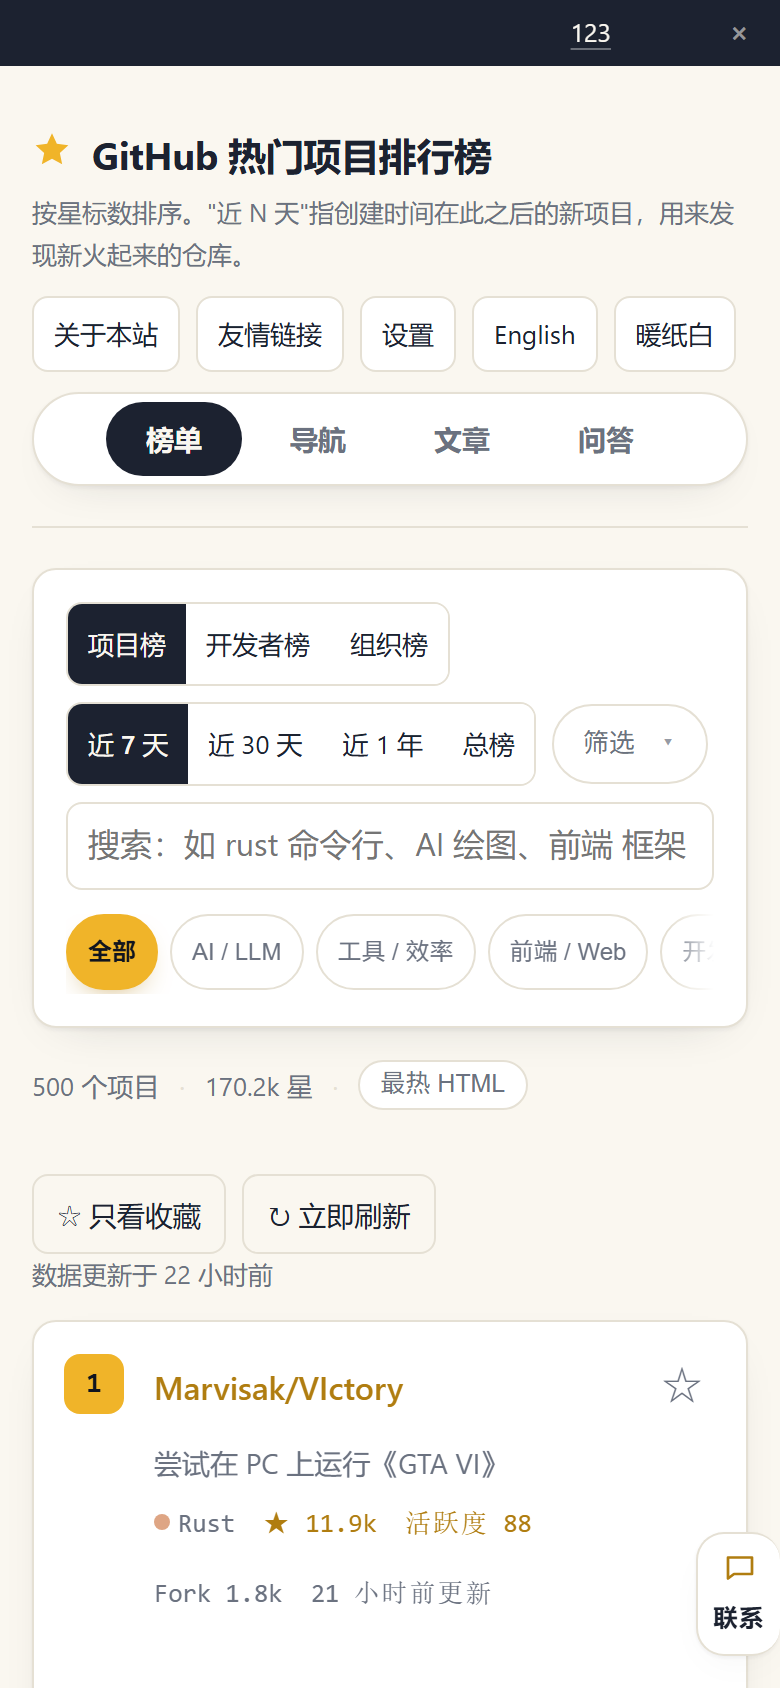
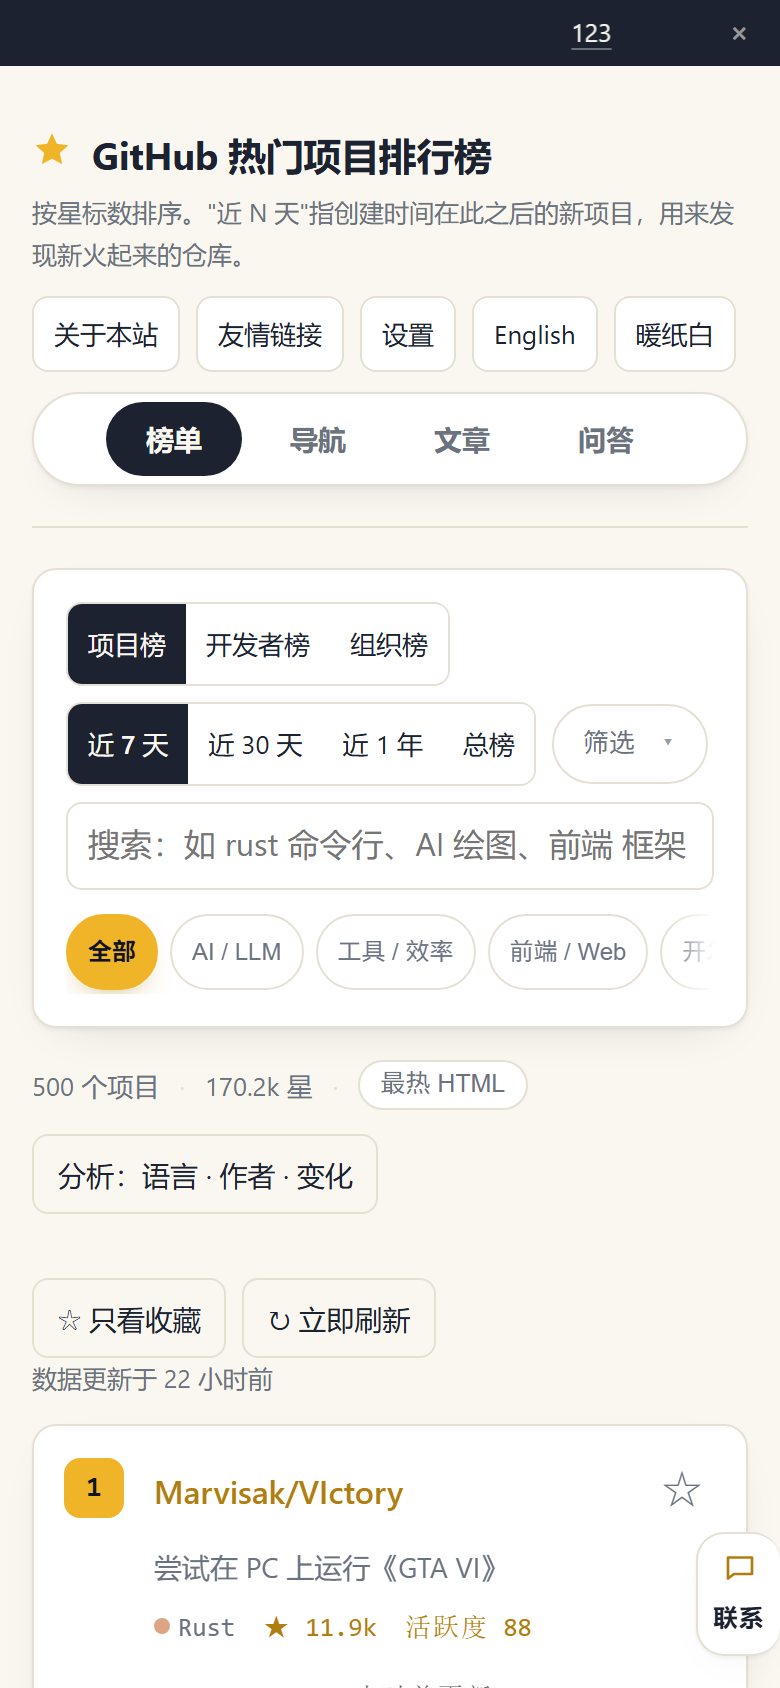
feat: 手机端「语言分布/作者/变化」默认收起、点开顶到榜单上方（桌面临右栏不变）; 新增 check-insights-mobile 门禁; v169

diff --git a/js/bundle.js b/js/bundle.js
@@ -975,6 +975,38 @@ function refreshTokenHint() {
   updateSourceNote();
 }
 $('btnSettings').onclick = () => { $('settings').hidden = !$('settings').hidden; refreshTokenHint(); };
+
+// ---------- 手机上把「语言分布 / 作者 / 变化」收起来 ----------
+// 桌面是右侧栏，读者想看的榜单在左边；手机上一列排下来，这块要是展开就挡在榜单前面，
+// 而且排在列表最下面又等于没人看。折中：默认收起 + 一个按钮，点开就顶到摘要下面。
+function syncInsightFold(reset) {
+  const btn = $('insightBtn');
+  const box = $('insights');
+  if (!btn || !box) return;
+  const narrow = window.matchMedia('(max-width:760px)').matches;
+  if (!narrow) {
+    box.hidden = false;
+    btn.setAttribute('aria-expanded', 'false');
+    return;
+  }
+  if (reset || !btn.dataset.init) {
+    btn.dataset.init = '1';
+    box.hidden = true;
+    btn.setAttribute('aria-expanded', 'false');
+  }
+}
+$('insightBtn').onclick = () => {
+  const box = $('insights');
+  box.hidden = !box.hidden;
+  $('insightBtn').setAttribute('aria-expanded', box.hidden ? 'false' : 'true');
+};
+let insightWide = window.matchMedia('(max-width:760px)').matches;
+window.addEventListener('resize', () => {
+  const narrow = window.matchMedia('(max-width:760px)').matches;
+  if (narrow !== insightWide) { insightWide = narrow; syncInsightFold(true); }
+});
+syncInsightFold();
+window.__syncInsightFold = syncInsightFold;
 $('btnSaveToken').onclick = () => {
   const v = $('token').value.trim();
   if (!v) return;

diff --git a/index.html b/index.html
@@ -401,7 +401,14 @@ html[data-theme="ink"] .navcard .hitmark,html[data-theme="ink"] .navjump .hitmar
 .au-stars{font-family:Consolas,ui-monospace,monospace;font-size:13px;font-weight:600;color:var(--accent);text-align:right}
 .insights .author-row{grid-template-columns:22px 24px minmax(0,1fr) 54px}
 .insights .au-bar{display:none}
-@media (max-width:600px){
+  .insights-toggle{display:none;margin:12px 0 0}
+  @media (max-width:760px){
+    .insights-toggle{display:inline-flex;align-items:center;min-height:40px}
+    .layout{display:flex;flex-direction:column}
+    .insights{order:-1;margin-top:12px}
+    .insights[hidden]{display:none}
+  }
+  @media (max-width:600px){
   .author-row{grid-template-columns:22px 24px minmax(0,1fr) 48px;gap:8px}
   .layout{grid-template-columns:1fr}
     .readme-wrap{margin-top:4px}
@@ -780,6 +787,7 @@ html[data-theme="ink"] meta,html[data-theme="ink"]{color-scheme:dark}
 
   <div class="ad-slot" id="adHomeTop" role="region" aria-label="广告位（顶部）" hidden></div>
   <div class="stats" id="stats" hidden></div>
+  <button class="btn ghost insights-toggle repo-only" id="insightBtn" type="button" aria-expanded="false" aria-controls="insights">分析：语言 · 作者 · 变化</button>
 
       <main class="layout" id="rank">
       <div class="main">

diff --git a/sw.js b/sw.js
@@ -1,5 +1,5 @@
 /* Service Worker：缓存页面外壳（HTML/JS/图标），让离线也能打开；GitHub API 不缓存，由页面自己的 localStorage 管理 */
-const CACHE = 'ghrank-shell-v168';
+const CACHE = 'ghrank-shell-v169';
 const SHELL = ['./', 'index.html', 'js/bundle.js', 'js/md.js', 'manifest.json', 'icon.svg'];
 // 只预缓存 meta（约 2KB）。榜单数据按 range 分文件、由页面按需加载，不再在安装时白下几�?KB
 const DATA = 'data/repos-meta.js';

diff --git a/worker.js b/worker.js
@@ -1630,7 +1630,7 @@ async function injectFaqLd(env, html) {
 
 // 静态资源版本：HTML 里的 /js/*.js 都会被加上 ?v=<这里>，于是能给浏览器一年 immutable；
 // 改了前端就把它 +1（不然用户浏览器会抱着一周的旧 bundle，界面上去点了没反应）
-const ASSET_V = 'v168';
+const ASSET_V = 'v169';
 
 function emptyNav() {
   return { updatedAt: '', groups: [] };

diff --git a/docs/优化建议.md b/docs/优化建议.md
@@ -4738,3 +4738,62 @@ $('token').placeholder = getToken()
 ### 教训
 
 **同一屏里出现两次相同结论，说明有人在补丁式地加说明**。这轮的价值不在视觉，而在于把两段重复说明合并成一句、并让它只说一次 —— 门禁里「出现次数 == 1」这种断言，比「包含某字符串」更能防回归。
+
+## 第 138 批：手机上「语言分布 / 作者 / 变化」不再等于没做
+
+日期：2026-11-26　版本：v169
+
+### 问题
+
+桌面是两列：左边榜单，右边 280px 侧栏，放「语言分布（可点筛选）」「上榜最多的作者 / 组织」「上次记录以来的变化」。手机上只有一列，`<aside>` 被排到 `<main>` 之后 —— 也就是**整页 20 张卡片 + 分页器之后**。读者要滚过整页才看得到，而这三块恰恰是「帮你决定看什么」的东西。
+
+### 改法：默认收起 + 一个按钮，点开就顶上去
+
+- 摘要行下面加一个只在窄屏出现的按钮：`分析：语言 · 作者 · 变化`（`aria-expanded` + `aria-controls="insights"`）。
+- 窄屏（≤760px）把 `.layout` 从 grid 改成 `flex-direction:column`，`.insights` 用 `order:-1` **挪到榜单前面**，并且默认 `hidden`。
+- 桌面一律不受影响：按钮 `display:none`，侧栏照旧在右边、照旧 sticky。
+
+```css
+.insights-toggle{display:none;margin:12px 0 0}
+@media (max-width:760px){
+  .insights-toggle{display:inline-flex;align-items:center;min-height:40px}
+  .layout{display:flex;flex-direction:column}
+  .insights{order:-1;margin-top:12px}
+  .insights[hidden]{display:none}
+}
+```
+
+```js
+function syncInsightFold(reset) {
+  const btn = $('insightBtn'), box = $('insights');
+  if (!btn || !box) return;
+  const narrow = window.matchMedia('(max-width:760px)').matches;
+  if (!narrow) { box.hidden = false; btn.setAttribute('aria-expanded', 'false'); return; }
+  if (reset || !btn.dataset.init) {
+    btn.dataset.init = '1'; box.hidden = true; btn.setAttribute('aria-expanded', 'false');
+  }
+}
+$('insightBtn').onclick = () => { … 切换 hidden + aria-expanded … };
+// 跨断点（拖动窗口 / 转屏）时重置：变宽就展开，变窄就收回
+```
+
+### 为什么不是「直接展开」也不是「整块删掉」
+
+- 直接展开：手机上它会顶在榜单前面，一屏全是统计，榜单看不见（这正是它原来被排到末尾的原因）。
+- 删掉：语言分布是**筛选入口**（点 HTML 就只看 HTML），作者榜是「这榜单被谁占据」的唯一线索，都有用，只是不该强占首屏。
+- 收起 + 一键展开，是这块内容唯一说得通的形态。
+
+### 门禁
+
+`node scripts/check-insights-mobile.mjs`（新，CDP，**14 项**）：
+
+- 390：按钮可见且文案含「分析」、`aria-expanded=false`、`#insights` 默认 `hidden`、不横向溢出；
+- 点开后 `hidden=false`、`aria-expanded=true`、**top（639）小于 `#list` 的 top（1538）** —— 证明它在榜单上面而不是列表末尾、且不用滚就能看到（top ≤ 900）、高度 794；
+- 再点一次收起且 `aria` 复位；
+- 1440：按钮 `display:none`、侧栏可见、`boxLeft(1104) > listLeft(56)+100`（仍在右边）、`boxTop ≈ .main top`（350 ≈ 350）。
+
+最后一条最初写成「侧栏与 `#list` 同高起」，实测差 81px 报红 —— 侧栏是对齐 `.main` 顶部（sticky），本来就比列表卡高，**断言写错了对象**，改成与 `.main` 比才正确。
+
+### 教训
+
+移动端「侧栏内容排到最底部」是个通病：它看起来像布局问题，其实是**信息优先级问题**。判断标准不是「能不能看到」，而是「看到它的时候还来不来得及影响决定」。
